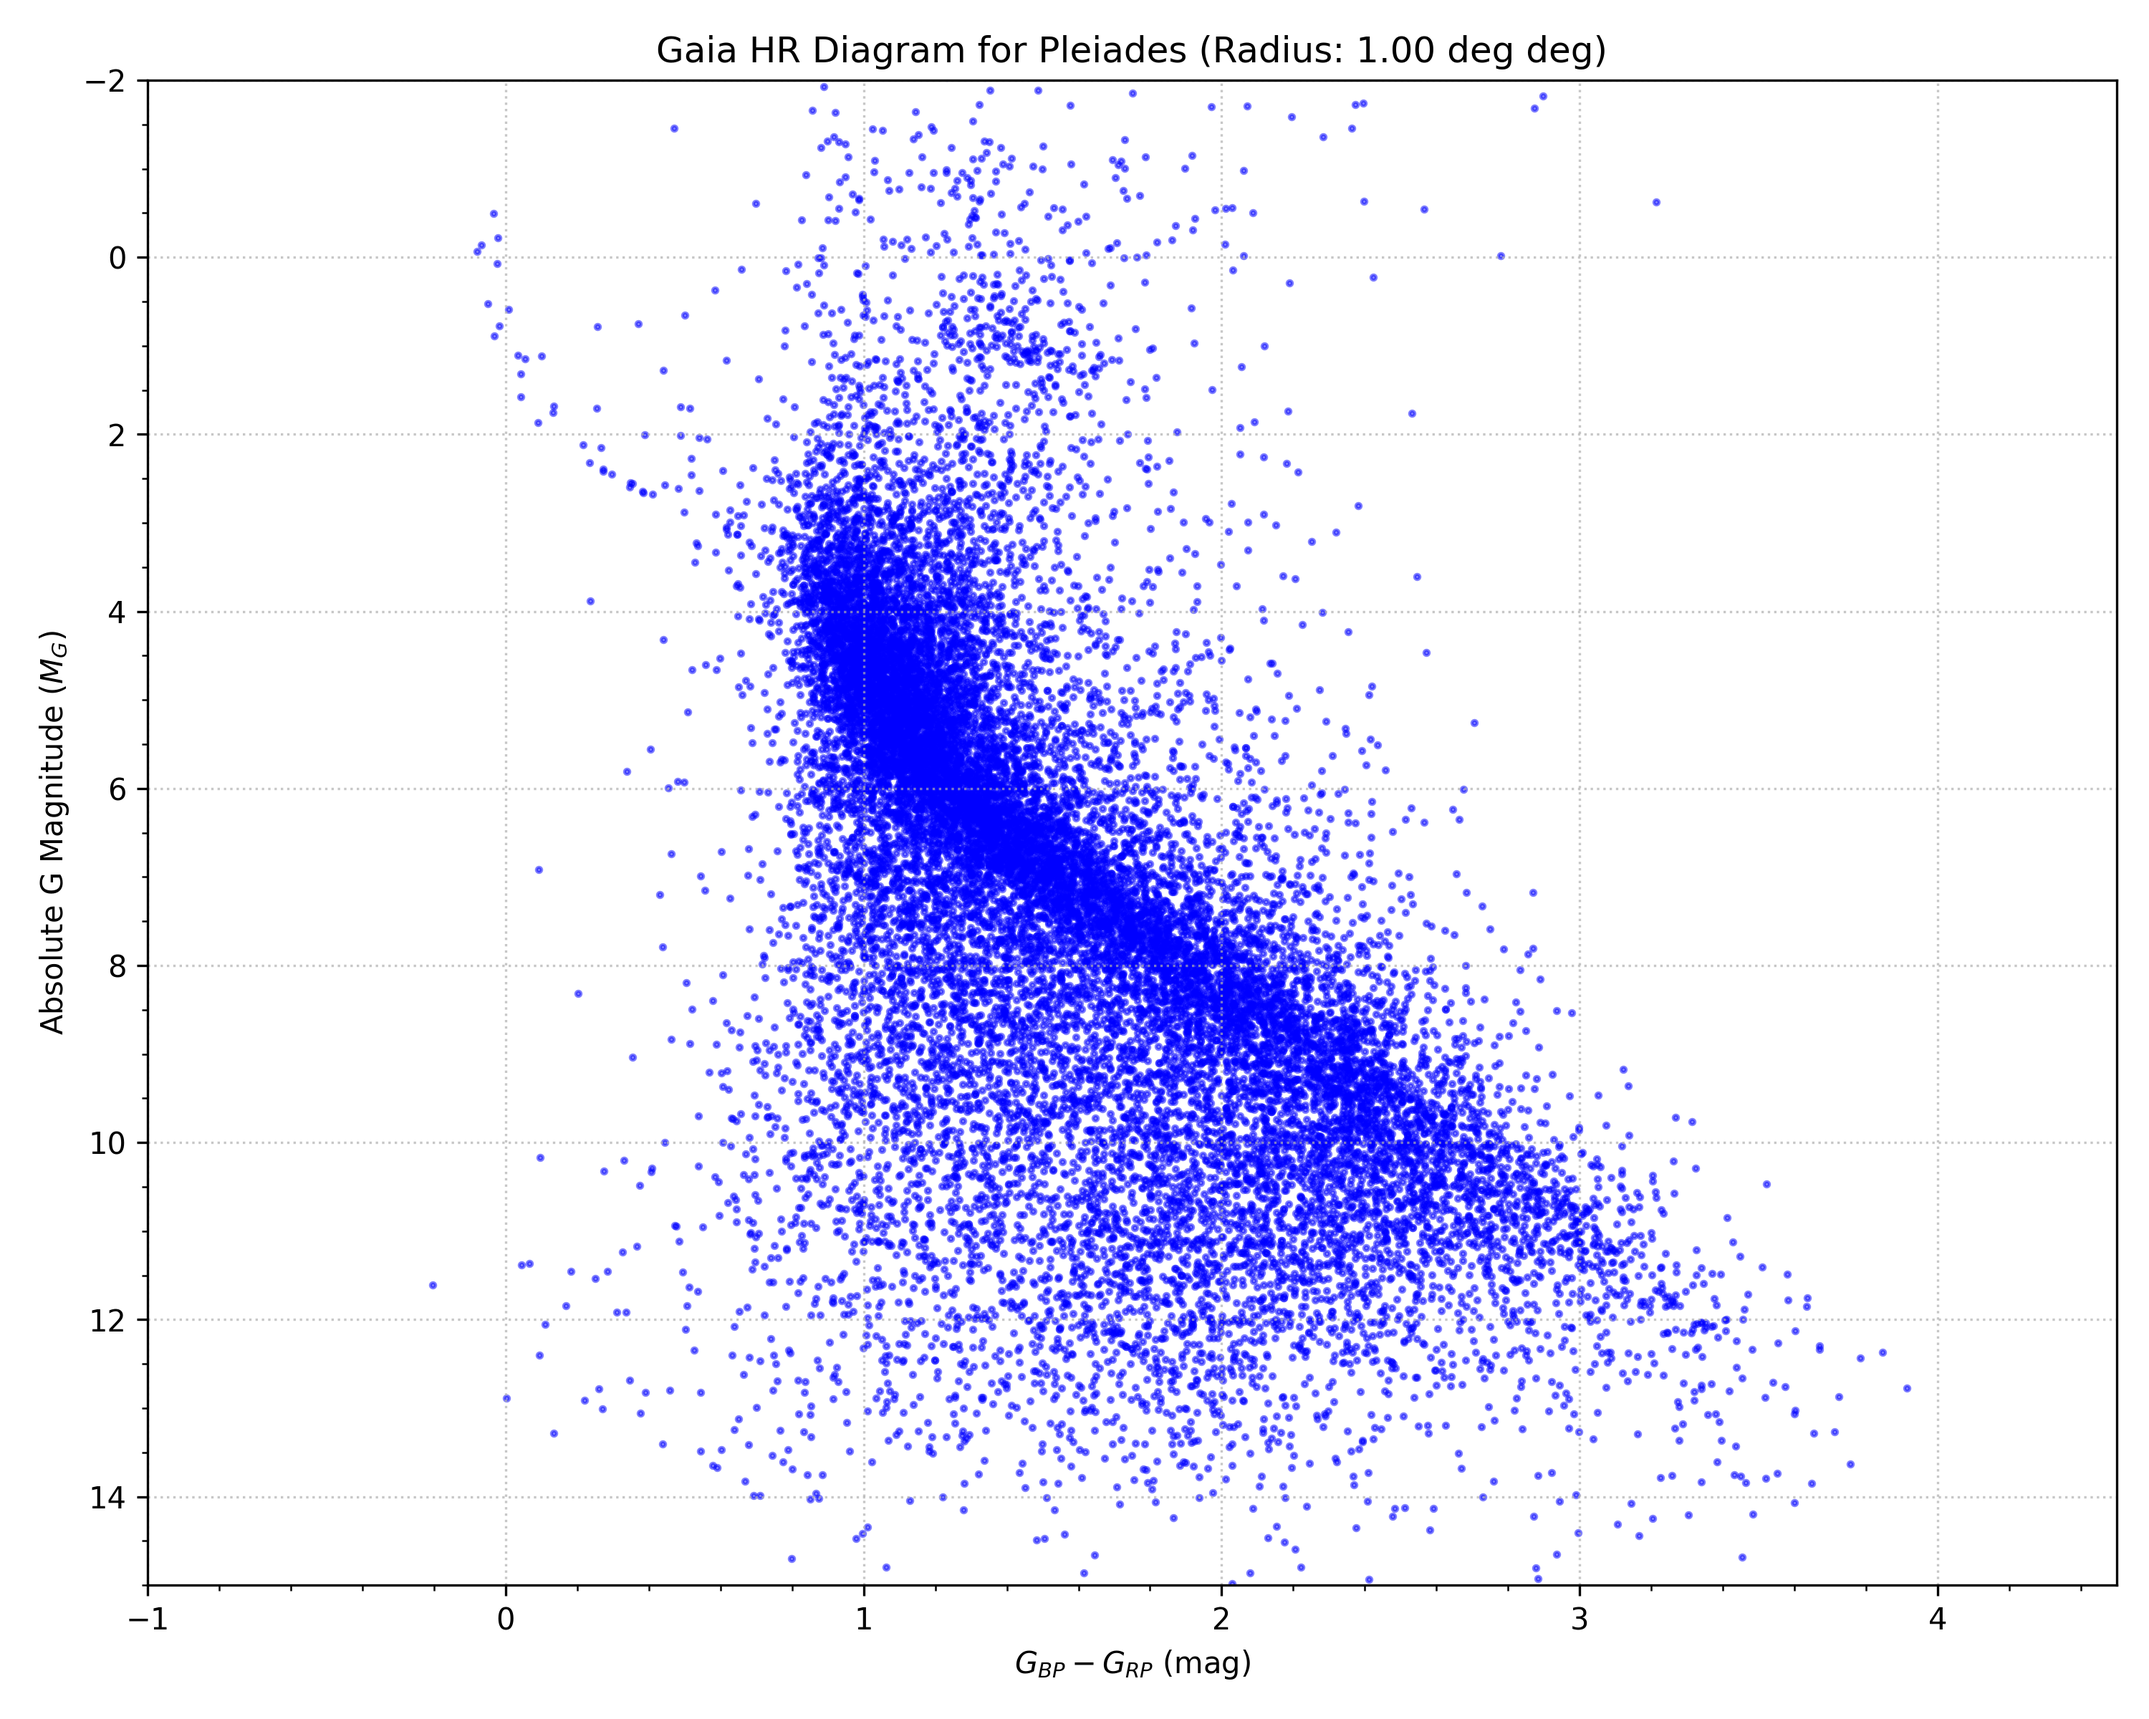
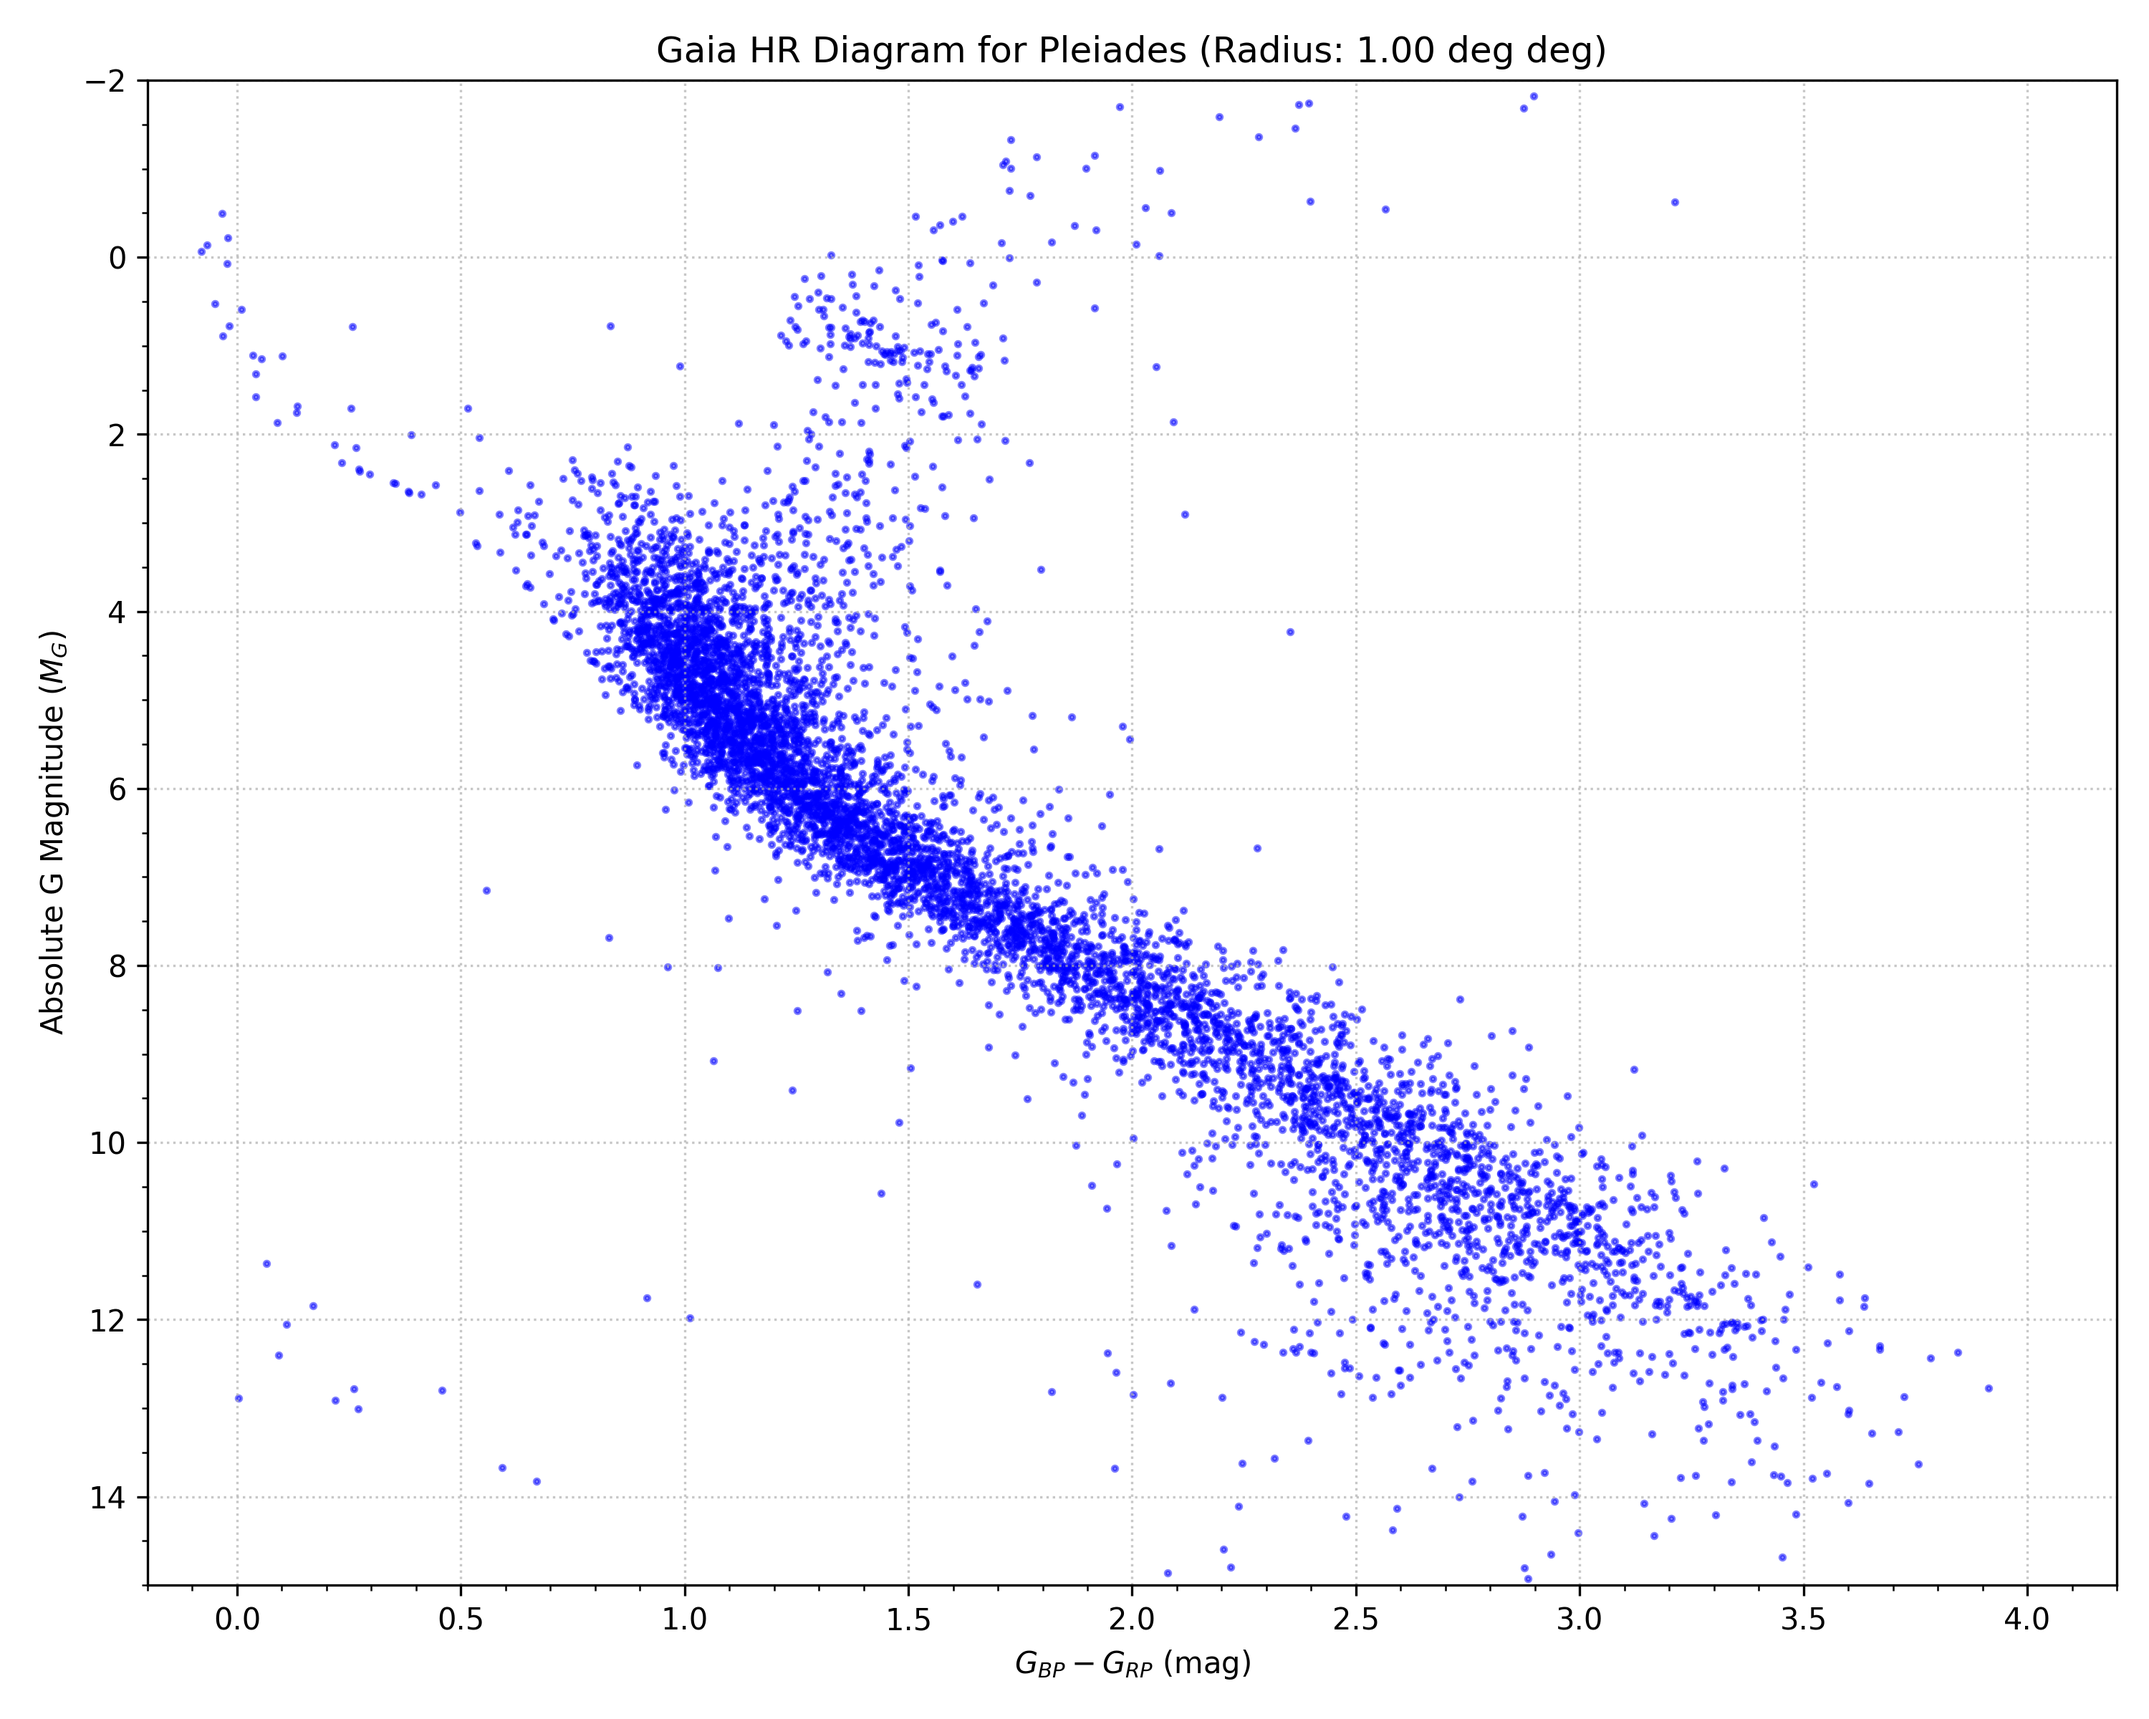
Saving dataset

Changed region(s): [[0.217, 0.0625, 0.868, 0.875]]

diff --git a/data_plotting/src/data_retrieval.py b/data_plotting/src/data_retrieval.py
@@ -10,6 +10,8 @@ from astroquery.gaia import Gaia
 
 from log import log_for_object
 
+from astropy.io import ascii
+from astropy.table import Table
 
 # Columns to Retrieve and Query Filters ---
 # These columns are essential for an HR Diagram and quality filtering
@@ -20,6 +22,7 @@ columns = [
     'bp_rp',
     'parallax',
     'parallax_error',
+    'parallax_over_error',
     'phot_g_mean_mag',
     'phot_bp_mean_mag',
     'phot_rp_mean_mag',
@@ -49,6 +52,7 @@ def retrieve_data(object_name: str, coords: SkyCoord, search_radius:  u.Quantity
     table = job.get_results()
     log_for_object(object_name, f"Retrieved {len(table)} stars from Gaia DR3.")
 
+    ascii.write(table[:20], f"../data/{object_name.replace(' ', '_').lower()}_gaia_data.csv", format="csv", overwrite=True)
     # Filter out rows with missing values
     filtered = table[
         (~table['parallax'].mask) &
@@ -64,6 +68,7 @@ def retrieve_data(object_name: str, coords: SkyCoord, search_radius:  u.Quantity
         # It's good practice to ensure all quality filters are applied explicitly.
         gaia_df.dropna(subset=['phot_g_mean_mag', 'phot_bp_mean_mag', 'phot_rp_mean_mag', 'parallax', 'parallax_error', 'ruwe'], inplace=True)
         gaia_df = gaia_df[gaia_df['parallax_error'] < 5]
+        gaia_df = gaia_df[gaia_df['parallax_over_error'] > 5]
         gaia_df = gaia_df[gaia_df['ruwe'] < 1.4]
 
     log_for_object(object_name, f"After filtering, {len(gaia_df)} stars remain for plotting (removed {initial_rows - len(gaia_df)}).")

diff --git a/data_plotting/src/data_plots.py b/data_plotting/src/data_plots.py
@@ -73,8 +73,14 @@ def plot_hr_diagram_lum_temp(gaia_df: pd.DataFrame, object_name: str, search_rad
 
 
     ax = plt.gca()
-    ax.set_xlim([-1, 4.5])
+
+    # Pleiades
+    ax.set_xlim([-0.2, 4.2])
     ax.set_ylim([-2, 15])
+
+    # Omega centauri
+    #ax.set_xlim([0, 2])
+    #ax.set_ylim([-1, 8])
 
     # ax.set_xscale('log')
     # ax.set_yscale('log')
